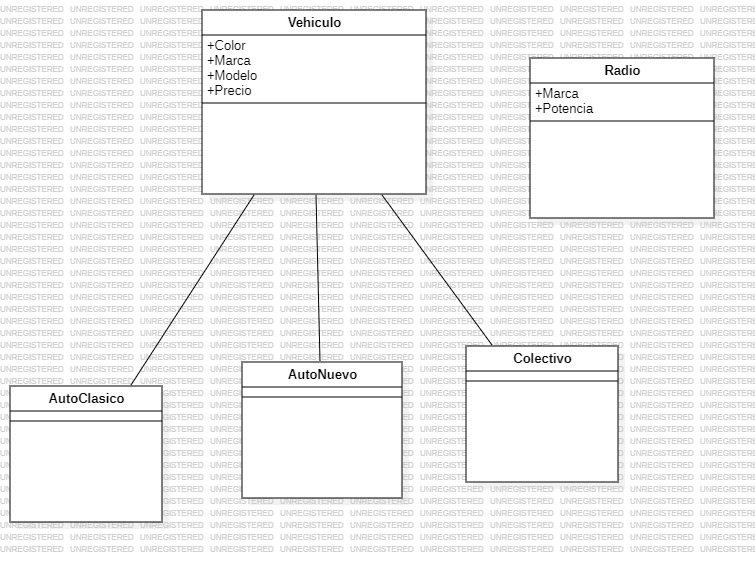
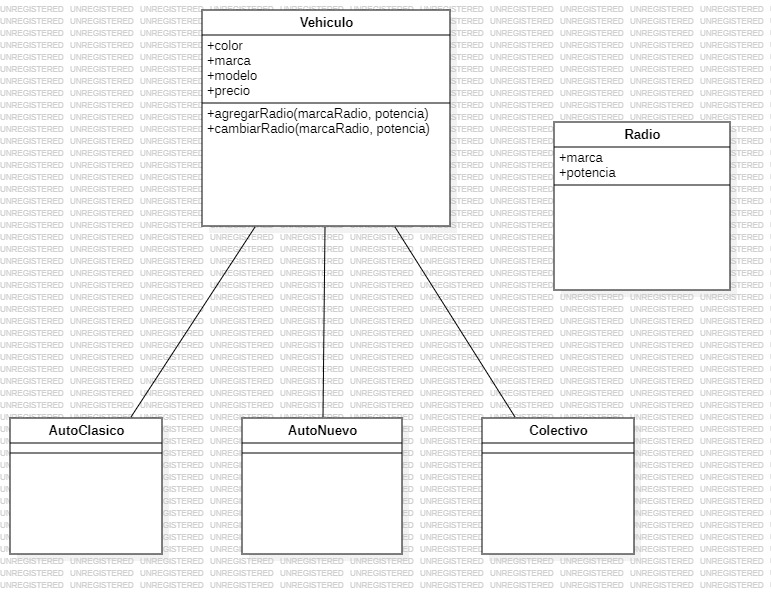
primer commit

Changed region(s): [[0.0, 0.0, 1.0, 0.9982]]

diff --git a/src/main/java/ar/org/centro8/curso/java/entities/AutoNuevo.java b/src/main/java/ar/org/centro8/curso/java/entities/AutoNuevo.java
@@ -5,26 +5,12 @@ import lombok.Getter;
 @Getter
 public class AutoNuevo extends Vehiculo{
 
-    private Radio radio;
-
-    public AutoNuevo(String color, String marca, String modelo, Radio radio, String marcaRadio, int potencia) {
+    public AutoNuevo(String color, String marca, String modelo, String marcaRadio, int potencia) {
         super(color, marca, modelo, marcaRadio, potencia);
     }
 
-    public AutoNuevo(String color, String marca, String modelo, double precio, Radio radio, String marcaRadio, int potencia) {
+    public AutoNuevo(String color, String marca, String modelo, double precio, String marcaRadio, int potencia) {
         super(color, marca, modelo, precio, marcaRadio, potencia);
-    }
-
-    @Override
-    public void agregarRadio(String marcaRadio, int potencia){
-        this.radio=new Radio(marcaRadio, potencia);
-        System.out.println("Se agregó una radio al vehiculo!");
-    }
-
-    @Override
-    public void cambiarRadio(String marcaRadio, int potencia){
-        this.radio=new Radio(marcaRadio, potencia);
-        System.out.println("Se cambió la radio del vehiculo!");
     }
  
 }

diff --git a/src/main/java/ar/org/centro8/curso/java/entities/AutoClasico.java b/src/main/java/ar/org/centro8/curso/java/entities/AutoClasico.java
@@ -5,26 +5,12 @@ import lombok.Getter;
 @Getter
 public class AutoClasico extends Vehiculo{
 
-    private Radio radio;
-
     public AutoClasico(String color, String marca, String modelo) {
         super(color, marca, modelo);
     }
 
     public AutoClasico(String color, String marca, String modelo, double precio) {
         super(color, marca, modelo, precio);
-    }
-
-    @Override
-    public void agregarRadio(String marcaRadio, int potencia){
-        this.radio=new Radio(marcaRadio, potencia);
-        System.out.println("Se agregó una radio al vehiculo!");
-    }
-
-    @Override
-    public void cambiarRadio(String marcaRadio, int potencia){
-        this.radio=new Radio(marcaRadio, potencia);
-        System.out.println("Se cambió la radio del vehiculo!");
     }
  
 }

diff --git a/src/main/java/ar/org/centro8/curso/java/entities/Colectivo.java b/src/main/java/ar/org/centro8/curso/java/entities/Colectivo.java
@@ -5,26 +5,12 @@ import lombok.Getter;
 @Getter
 public class Colectivo extends Vehiculo{
 
-    private Radio radio;
-
     public Colectivo(String color, String marca, String modelo) {
         super(color, marca, modelo);
     }
 
     public Colectivo(String color, String marca, String modelo, double precio) {
         super(color, marca, modelo, precio);
-    }
-
-    @Override
-    public void agregarRadio(String marcaRadio, int potencia){
-        this.radio=new Radio(marcaRadio, potencia);
-        System.out.println("Se agregó una radio al vehiculo!");
-    }
-
-    @Override
-    public void cambiarRadio(String marcaRadio, int potencia){
-        this.radio=new Radio(marcaRadio, potencia);
-        System.out.println("Se cambió la radio del vehiculo!");
     }
  
 }

diff --git a/src/main/java/ar/org/centro8/curso/java/test/TestVehiculos.java b/src/main/java/ar/org/centro8/curso/java/test/TestVehiculos.java
@@ -19,12 +19,12 @@ public class TestVehiculos {
         System.out.println(autoclasico2);
 
         System.out.println("-- autonuevo1 --");
-        AutoNuevo autonuevo1=new AutoNuevo("Negro", "Chevrolet", "Corvette", null, "Garmin", 25);
+        AutoNuevo autonuevo1=new AutoNuevo("Negro", "Chevrolet", "Corvette", "Garmin", 25);
         autonuevo1.cambiarRadio("Nakamichi", 80);
         System.out.println(autonuevo1);
 
         System.out.println("-- autonuevo2 --");
-        AutoNuevo autonuevo2=new AutoNuevo("Azul", "Toyota", "Innova", 500000, null, "Pioneer", 50);
+        AutoNuevo autonuevo2=new AutoNuevo("Azul", "Toyota", "Innova", 500000, "Pioneer", 50);
         autonuevo2.cambiarRadio("Omnitek", 100);
         System.out.println(autonuevo2);
 

diff --git a/src/main/java/ar/org/centro8/curso/java/entities/Vehiculo.java b/src/main/java/ar/org/centro8/curso/java/entities/Vehiculo.java
@@ -43,8 +43,14 @@ public abstract class Vehiculo {
         this.radio=new Radio(marcaRadio, potencia);
     }
 
-    public abstract void agregarRadio(String marcaRadio, int potencia);
+    public void agregarRadio(String marcaRadio, int potencia){
+        this.radio=new Radio(marcaRadio, potencia);
+        System.out.println("Se agregó una radio al vehiculo!");
+    }
 
-    public abstract void cambiarRadio(String marcaRadio, int potencia);
+    public void cambiarRadio(String marcaRadio, int potencia){
+        this.radio=new Radio(marcaRadio, potencia);
+        System.out.println("Se cambió la radio del vehiculo!");
+    }
 
 }
